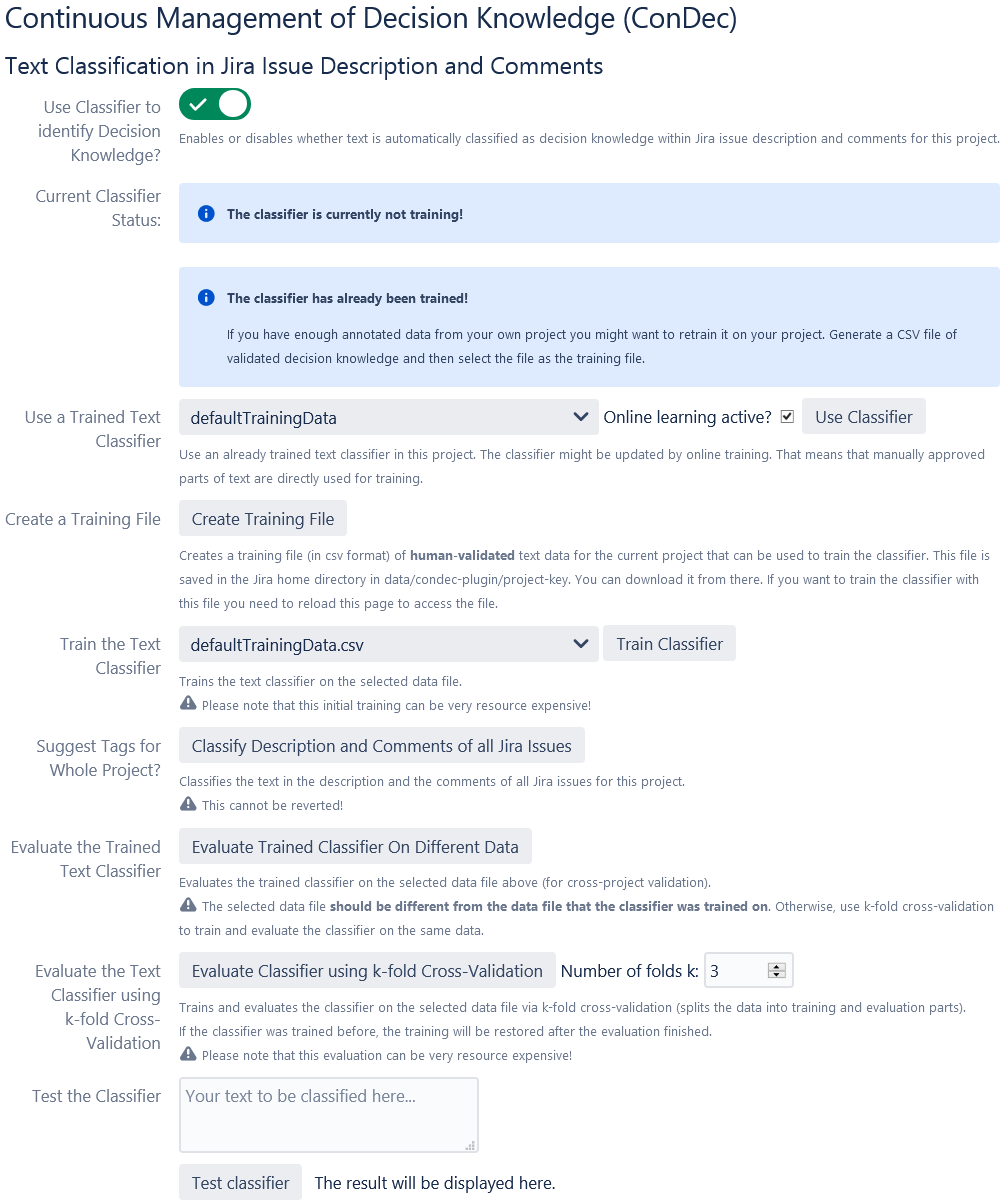
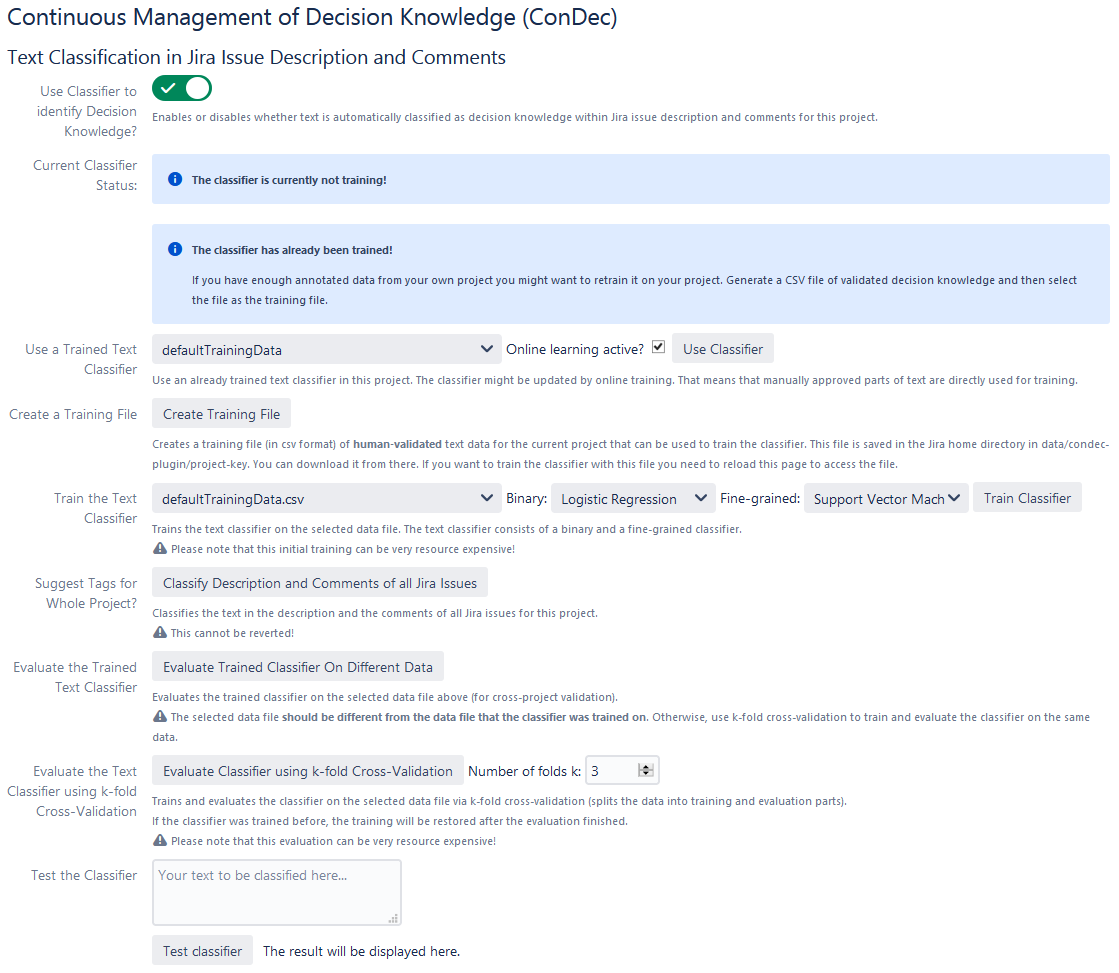
Pass classifier type parameters for binary and fine-grained classifiers to trainClassifier REST API method

diff --git a/src/main/resources/js/condec.api.js b/src/main/resources/js/condec.api.js
@@ -820,10 +820,10 @@
 	/*
 	 * external references: templates/settings/classificationSettings.vm
 	 */
-	ConDecAPI.prototype.trainClassifier = function (projectKey, trainingFileName, animatedElement) {
+	ConDecAPI.prototype.trainClassifier = function (projectKey, trainingFileName, binaryClassifierType, fineGrainedClassifierType, animatedElement) {
 		animatedElement.classList.add("aui-progress-indicator-value");
 		generalApi.postJSON(this.restPrefix + "/classification/trainClassifier.json?projectKey=" + projectKey + "&trainingFileName="
-			+ trainingFileName,
+			+ trainingFileName + "&binaryClassifierType=" + binaryClassifierType + "&fineGrainedClassifierType=" + fineGrainedClassifierType,
 			null,
 			function (error, response) {
 				animatedElement.classList.remove("aui-progress-indicator-value");

diff --git a/src/test/java/de/uhd/ifi/se/decision/management/jira/rest/textclassificationrest/TestTrainClassifier.java b/src/test/java/de/uhd/ifi/se/decision/management/jira/rest/textclassificationrest/TestTrainClassifier.java
@@ -30,31 +30,31 @@ public class TestTrainClassifier extends TestSetUp {
 	@Test
 	public void testRequestNullProjectKeyNullTrainingFileNull() {
 		assertEquals(Status.BAD_REQUEST.getStatusCode(),
-				classificationRest.trainClassifier(null, null, null).getStatus());
+				classificationRest.trainClassifier(null, null, null, null, null).getStatus());
 	}
 
 	@Test
 	public void testRequestNullProjectKeyNullTrainingFileProvided() {
 		assertEquals(Status.BAD_REQUEST.getStatusCode(),
-				classificationRest.trainClassifier(null, null, "trainingData.csv").getStatus());
+				classificationRest.trainClassifier(null, null, "trainingData.csv", null, null).getStatus());
 	}
 
 	@Test
 	public void testRequestValidProjectKeyExistsTrainingFileNull() {
 		assertEquals(Status.BAD_REQUEST.getStatusCode(),
-				classificationRest.trainClassifier(request, "TEST", null).getStatus());
+				classificationRest.trainClassifier(request, "TEST", null, null, null).getStatus());
 	}
 
 	@Test
 	public void testRequestValidProjectKeyExistsTrainingFileEmpty() {
 		assertEquals(Status.BAD_REQUEST.getStatusCode(),
-				classificationRest.trainClassifier(request, "TEST", "").getStatus());
+				classificationRest.trainClassifier(request, "TEST", "", null, null).getStatus());
 	}
 
 	@Test
 	public void testRequestValidProjectKeyExistsTrainingFileNonExistent() {
 		// ok because it falls back on the default training data
 		assertEquals(Status.OK.getStatusCode(),
-				classificationRest.trainClassifier(request, "TEST", "fake.csv").getStatus());
+				classificationRest.trainClassifier(request, "TEST", "fake.csv", null, null).getStatus());
 	}
 }

diff --git a/src/main/java/de/uhd/ifi/se/decision/management/jira/rest/TextClassificationRest.java b/src/main/java/de/uhd/ifi/se/decision/management/jira/rest/TextClassificationRest.java
@@ -76,7 +76,9 @@ public class TextClassificationRest {
 	@Path("/trainClassifier")
 	@POST
 	public Response trainClassifier(@Context HttpServletRequest request, @QueryParam("projectKey") String projectKey,
-			@QueryParam("trainingFileName") String trainingFileName) {
+			@QueryParam("trainingFileName") String trainingFileName,
+			@QueryParam("binaryClassifierType") String binaryClassifierType,
+			@QueryParam("fineGrainedClassifierType") String fineGrainedClassifierType) {
 		Response isValidDataResponse = RestParameterChecker.checkIfDataIsValid(request, projectKey);
 		if (isValidDataResponse.getStatus() != Status.OK.getStatusCode()) {
 			return isValidDataResponse;
